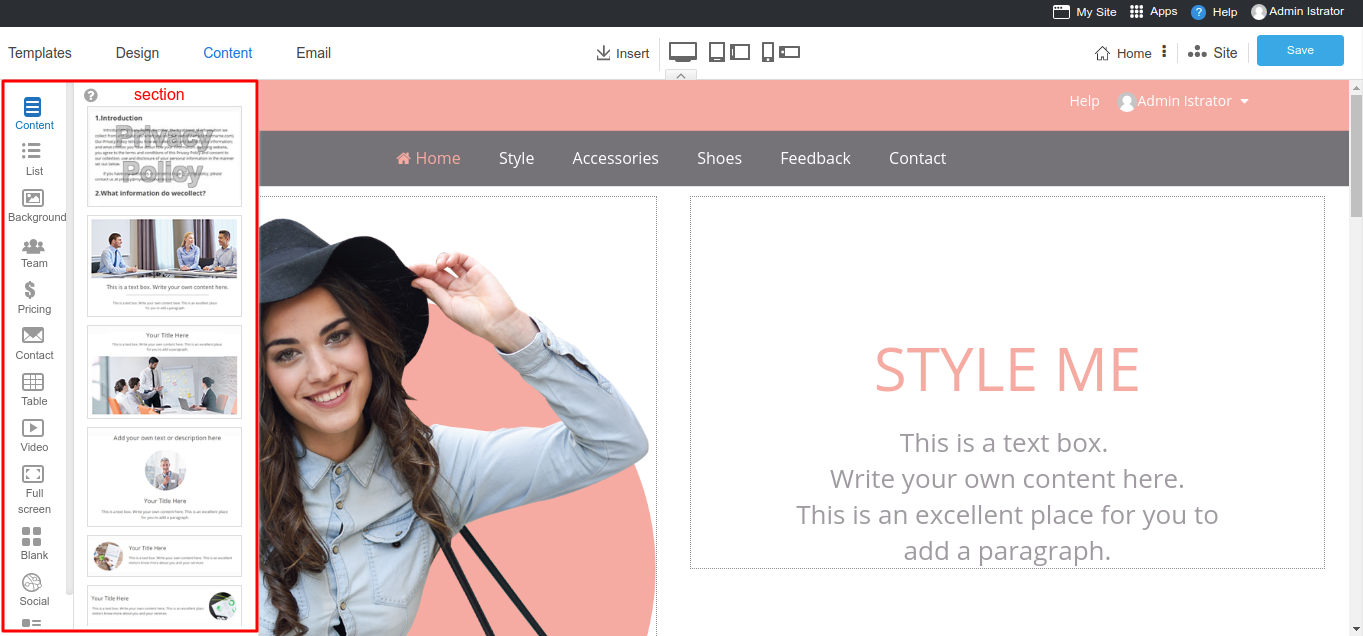
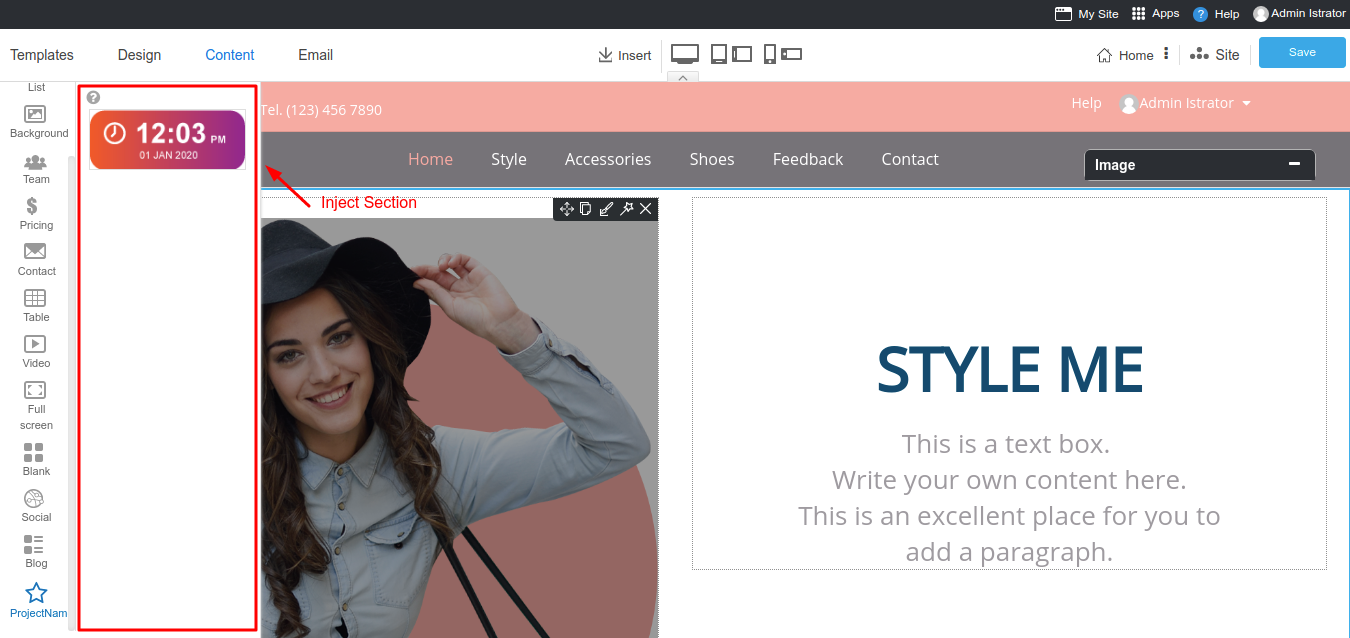
list wysiwyg

diff --git a/en/extending-WYSIWYG.md b/en/extending-WYSIWYG.md
@@ -2,8 +2,18 @@
 
 - [Overview](#overview)
 - [Inject Services](#inject-services)
+  - [Viewmode](#viewmode)
+  - [Toolbar](#toolbar)
+  - [Editmode](#editmode)
+  - [Section-icon](#section-icon)
+  - [Section](#section)
 - [Frontend Event Hooks](#frontend-event-hooks)
+  - [beforeSave](#beforesave)
+  - [afterSave](#aftersave)
+  - [completeSave](#completesave)
 - [Backend Event Hooks](#backend-event-hooks)
+  - [Saving event](#saving-event)
+  - [Saved event](#saved-event)
 
 <a name="Overview"></a>
 
@@ -34,6 +44,14 @@ public function defineinject()
     app('rvsitebuilderService')->inject('inject-name','vendor-name/package-name::view blade file');
 }
 ```
+
+- **inject Service User**
+  - **Viewmode**
+  -
+- **inject Service Admin**
+  - **Viewmode**
+
+inject-name
 
 ### Viewmode
 
@@ -76,6 +94,19 @@ app('rvsitebuilderService')->inject('editmode','vendor-name/package-name::view b
 Result is below :
 ![Inject to Editmode](images/injecteditmode.png)
 
+### Section-icon
+
+You can add your icon widget to our `Content -> Section` in WYSIWYG by using `Inject Section Icon`.
+
+Example code :
+
+```php
+app('rvsitebuilderService')->inject('section_icon','vendor-name/package-name::view blade file');
+```
+
+Result is below :
+![Inject Section](images/injectsectionicon.png)
+
 ### Section
 
 You can add your widget to our `Content -> Section` in WYSIWYG by using `Inject Section`.
@@ -89,7 +120,7 @@ app('rvsitebuilderService')->inject('section','vendor-name/package-name::view bl
 Result is below :
 ![Inject Section](images/injectsection.png)
 
-### Insert
+> {info} If you are not familiar with its `app's widget design`. Check out the full [RVsitebuilder Widget](rvsitebuilder-widget.md) to get started.
 
 <a name="Frontend-Event-Hooks"></a>
 
